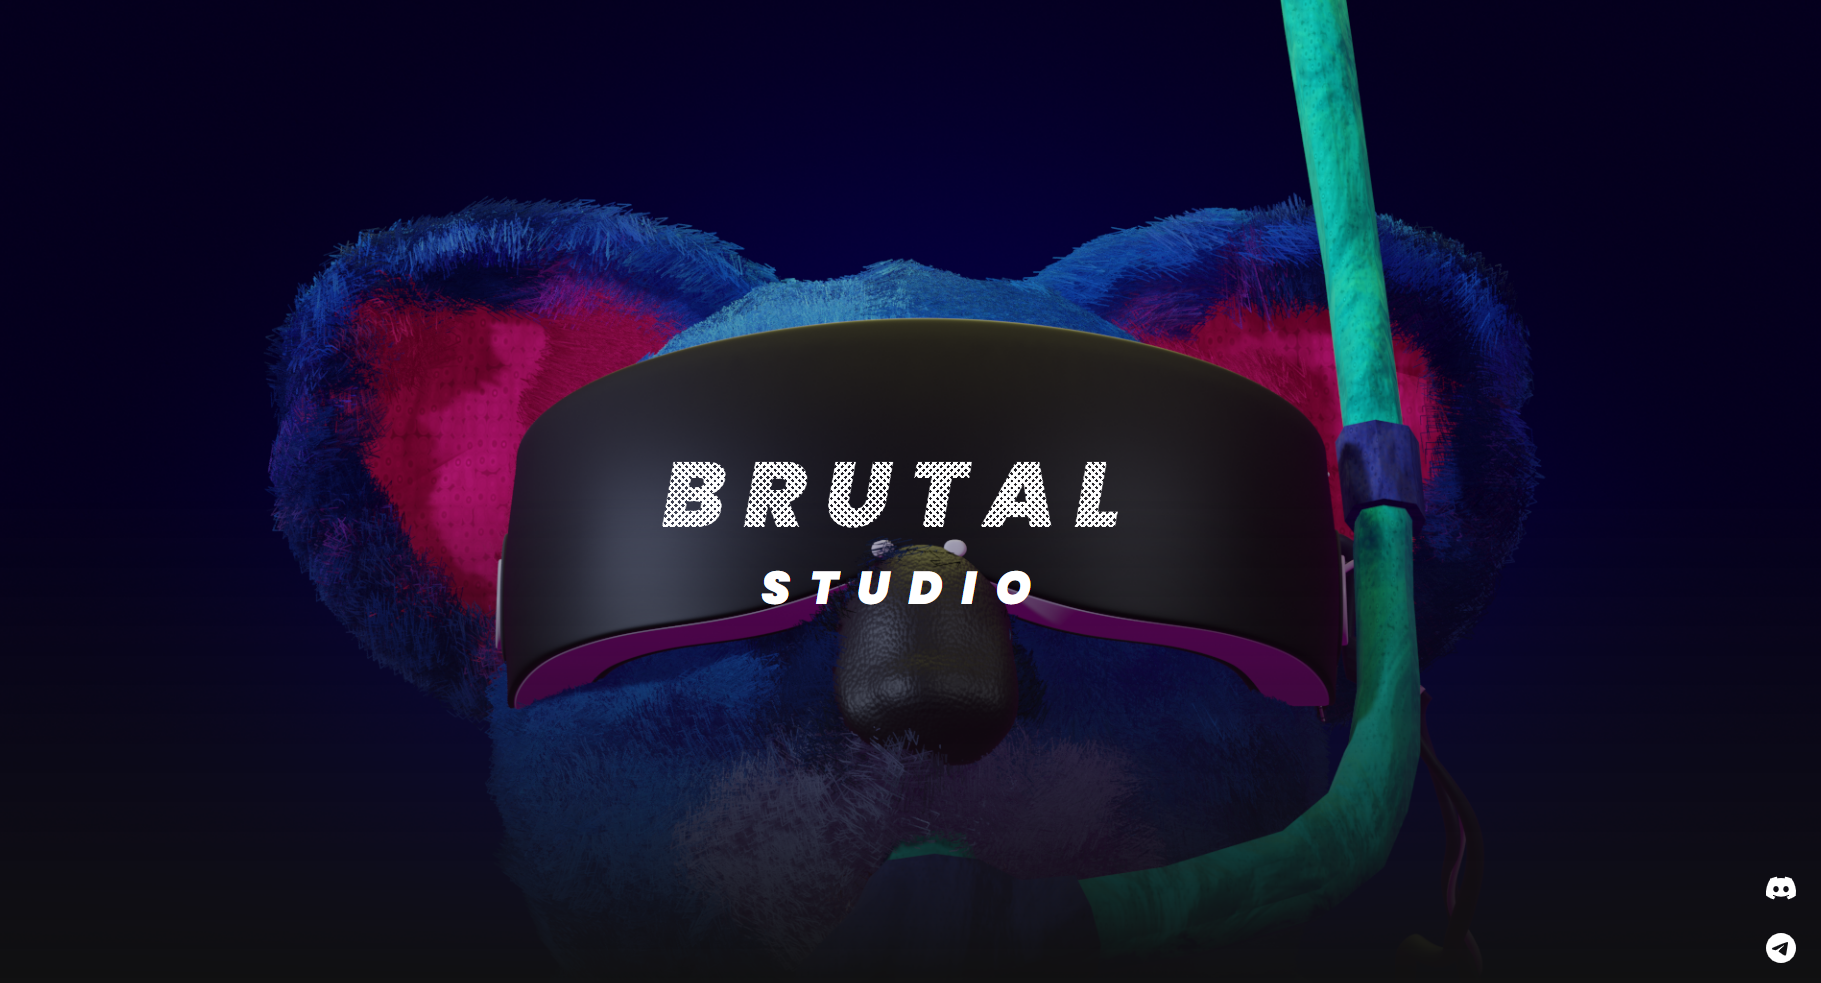
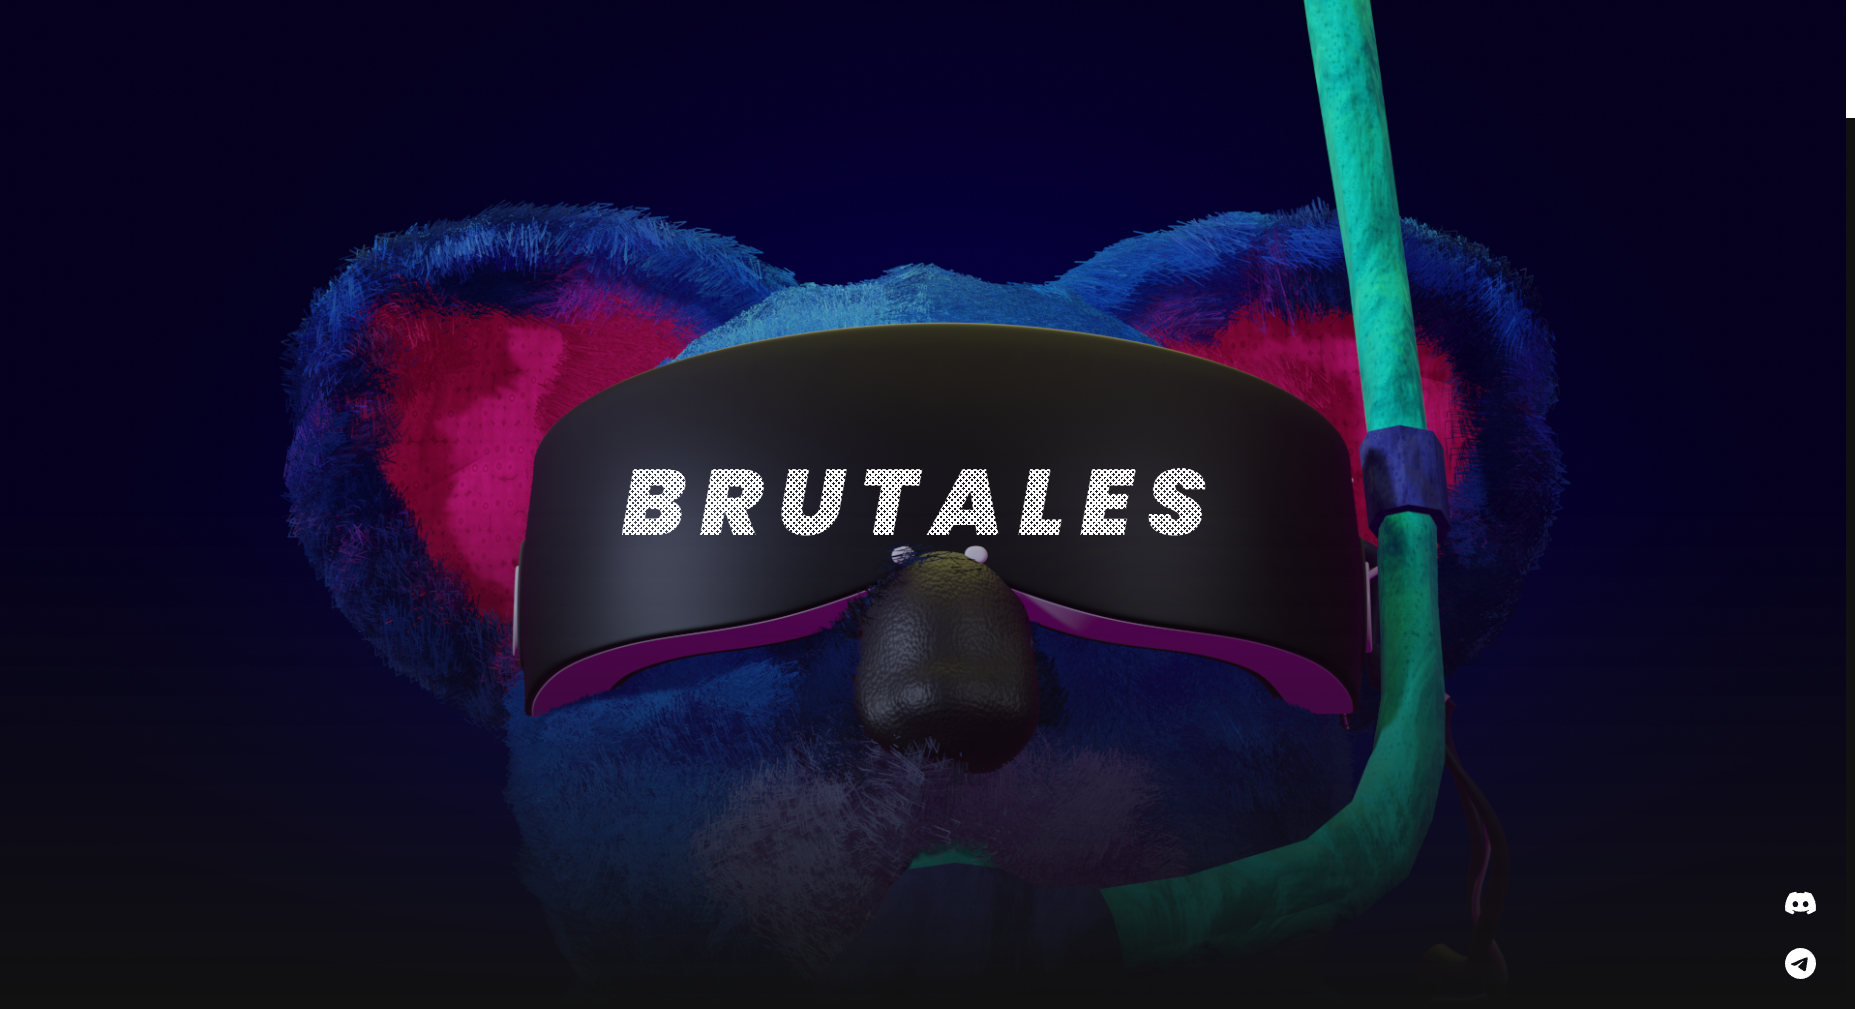
..

diff --git a/index.html b/index.html
@@ -6,22 +6,22 @@
     <meta name="viewport" content="width=device-width, initial-scale=1">
 
     <!-- Primary Meta Tags -->
-    <meta name="title" content="BRUTAL STUDIO">
-    <meta name="description" content="3D/NFT/DEV DESIGN STUDIO BASED IN LIMA">
+    <meta name="title" content="BRUTALES STUDIO">
+    <meta name="description" content="3D/NFT/DEV Metaverse Studio based in Lima">
 
     <!-- Open Graph / Facebook -->
     <meta property="og:type" content="website">
     <meta property="og:url" content="brutales.xyz">
-    <meta property="og:title" content="BRUTAL STUDIO">
-    <meta property="og:description" content="3D/NFT/DEV DESIGN STUDIO BASED IN LIMA">
+    <meta property="og:title" content="BRUTALES STUDIO">
+    <meta property="og:description" content="3D/NFT/DEV Metaverse Studio based in Lima">
     <meta property="og:image" content="https://raw.githubusercontent.com/fabohax/brutal/main/assets/img/social.png">
     <meta property="og:site_name" content="Digital Works">
 
     <!-- Twitter -->
     <meta property="twitter:card" content="summary_large_image">
     <meta property="twitter:url" content="brutales.xyz">
-    <meta property="twitter:title" content="BRUTAL STUDIO">
-    <meta property="twitter:description" content="3D/NFT/DEV DESIGN STUDIO BASED IN LIMA">
+    <meta property="twitter:title" content="BRUTALES STUDIO">
+    <meta property="twitter:description" content="3D/NFT/DEV Metaverse Studio based in Lima">
     <meta property="twitter:image" content="https://raw.githubusercontent.com/fabohax/brutal/main/assets/img/social.png">
 
     <link rel="shortcut icon" href="assets/img/favicon.ico" type="image/x-icon">
@@ -31,7 +31,7 @@
     <meta name="apple-touch-fullscreen" content="yes">
 
     <meta name="googlebot" content="notranslate" />
-    <meta name="googlebot" content="BRUTAL STUDIO" />
+    <meta name="googlebot" content="BRUTALES STUDIO" />
 
     <link rel="preconnect" href="https://fonts.googleapis.com">
     <link rel="preconnect" href="https://fonts.gstatic.com" crossorigin>
@@ -43,7 +43,7 @@
 
     <nav>BRUTALES</nav>
 
-    <div id="ss"><a href="https://discordapp.com/users/568972800300417056/" target="_blank"><img src="assets/img/discord.svg"></a><a href="https://t.me/brutalxyz" target="_blank"><img src="assets/img/telegram.svg"></a></div>
+    <div id="ss"><a href="https://discordapp.com/users/568972800300417056/" target="_blank"><img src="assets/img/discord.svg"></a><a href="https://t.me/brutalesxyz" target="_blank"><img src="assets/img/telegram.svg"></a></div>
 
     <div class="b1"></div>
     <img src="media/SIF.png">
